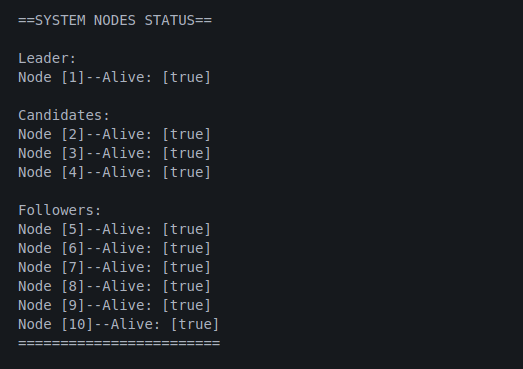
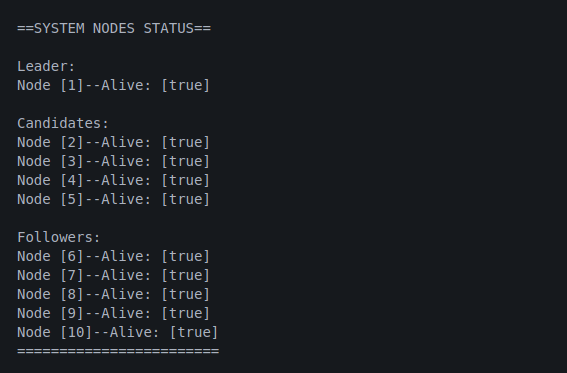
fix minor issues

Changed region(s): [[0.0306, 0.2981, 0.4283, 0.9539], [0.0306, 0.1491, 0.3977, 0.2385], [0.0306, 0.0298, 0.3977, 0.0894]]

diff --git a/main.go b/main.go
@@ -12,7 +12,7 @@ func main() {
 	rand.New(rand.NewSource(time.Now().UnixNano()))
 
 	numberOfNodes := 10
-	numberOfCandidates := 3
+	numberOfCandidates := 4
 	nodeList := nodes.InitializeNodes(numberOfNodes, numberOfCandidates)
 
 
